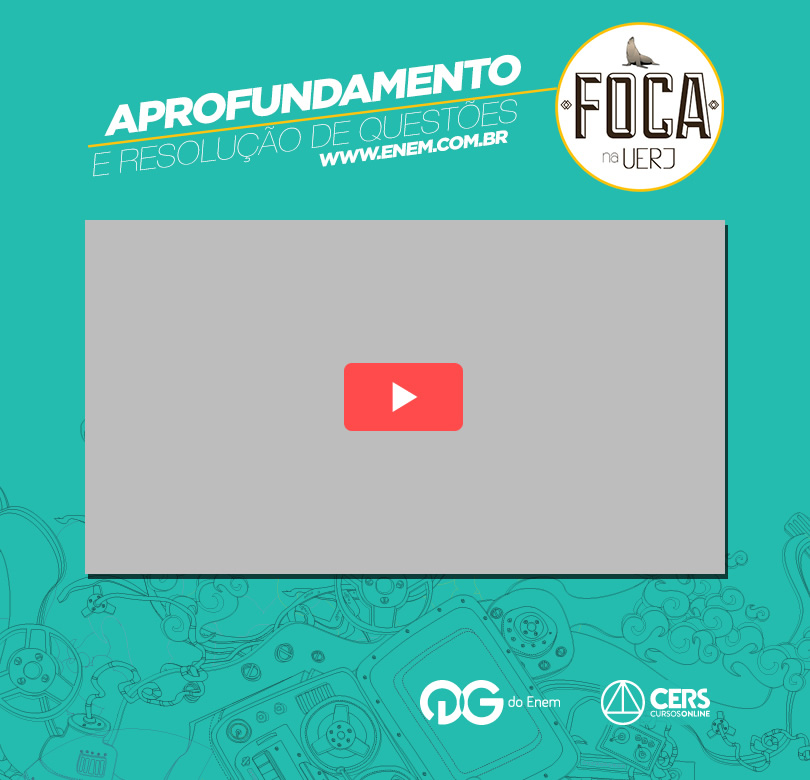
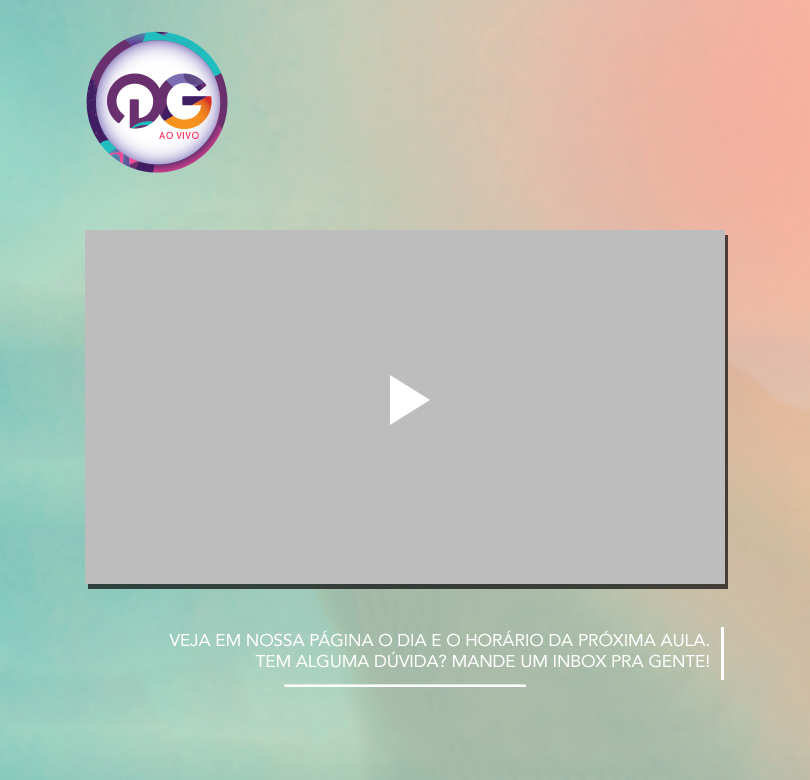
Template QG Enem 12 fev 2014

diff --git a/style/screen.css b/style/screen.css
@@ -2,5 +2,5 @@
   CSS
   Author: Letícia Matos | leticiamatos.com | CERS - Complexo de Ensino Renato Saraiva
 ------------------------------------ */
-.width_center{width:810px;margin-left:auto;margin-right:auto}.clear{display:block;clear:both}.block_wpr{width:100%;text-align:center}.block_wpr .block_cntt{width:790px;margin:0 auto;text-align:left}.video_like .block_cntt{height:780px;background:url(../img/video_like.jpg) top center no-repeat;position:relative}.video_like .player_wpr{width:640px;height:355px;background:#ccc;text-align:center;position:relative;margin:0 auto;top:220px}.video_unlike .block_cntt{height:780px;position:relative;background:url(../img/video_unlike.jpg) top center no-repeat}footer{display:block;width:290px;position:absolute;bottom:55px;right:90px}footer a{display:block;float:left;height:45px}footer a:nth-child(1){width:140px}footer a:nth-child(2){margin-left:40px;width:109px}
+.width_center{width:810px;margin-left:auto;margin-right:auto}a{color:#000;transition:.6s;-moz-transition:.6s;-webkit-transition:.6s;-o-transition:.6s;-ms-transition:.6s}a:hover{text-decoration:none;opacity:.6}.clear{display:block;clear:both}.block_wpr{width:100%;text-align:center}.block_wpr .block_cntt{width:790px;margin:0 auto;text-align:left}.video_like .block_cntt{height:780px;background:url(../img/video_like.jpg) top center no-repeat;position:relative}.video_like .player_wpr{width:640px;height:355px;background:#ccc;text-align:center;position:relative;margin:0 auto;top:230px}.video_like footer{top:270px}.video_like footer a{display:block;position:absolute}.video_like footer a.link_qg{top:80px;left:350px}.video_like footer a.link_cers{top:80px;right:80px}.video_unlike .block_cntt{height:780px;position:relative;background:url(../img/video_unlike.jpg) top center no-repeat}.video_unlike .link_qg,.video_unlike .link_cers{display:block;position:absolute}.video_unlike .link_qg{height:50px;width:150px;bottom:115px;right:50px}.video_unlike .link_cers{height:50px;width:120px;bottom:55px;right:85px}header a{display:block;position:absolute;top:80px;right:74px}footer{clear:both;display:block;position:relative;height:150px}
 /* This beautiful CSS-File has been crafted with LESS (lesscss.org) and compiled by simpLESS (wearekiss.com/simpless) */

diff --git a/style/screen.less b/style/screen.less
@@ -18,7 +18,21 @@
     margin-left: auto;
     margin-right: auto;
   }
-
+.transition (@transiton: 0.6s){
+  transition:@transiton;
+  -moz-transition:@transiton;
+  -webkit-transition:@transiton;
+  -o-transition:@transiton;
+  -ms-transition:@transiton;
+}
+a{ 
+  color: #000;
+  .transition;
+}
+a:hover{
+  text-decoration: none; 
+  opacity: 0.6;
+}
 .clear{
   display: block; 
   clear: both;
@@ -47,7 +61,22 @@
     text-align: center;
     position: relative;
     margin: 0 auto;
-    top:220px;
+    top:230px;
+  }
+  footer{
+    top: 270px;
+    a{
+      display: block;
+      position: absolute;
+    }
+    a.link_qg{
+      top: 80px;
+      left: 350px;
+    }
+    a.link_cers{
+      top: 80px;
+      right: 80px;
+    }    
   }
 }
 .video_unlike{
@@ -56,25 +85,39 @@
     position: relative;
     background: url(../img/video_unlike.jpg) top center no-repeat;
   }
-}
-footer{
-  display: block;
-  width: 290px;
-  //background: @cTest;
-  position: absolute;
-  bottom:55px;
-  right: 90px;
-  a{
+
+  .link_qg,
+  .link_cers{
     display: block;
-    float: left;
-    height: 45px;
+    position: absolute;
     //background: @cTest;
   }
-  a:nth-child(1){
-    width: 140px;
+  .link_qg{
+    height: 50px;
+    width: 150px;
+    bottom: 115px;
+    right: 50px;
   }
-  a:nth-child(2){
-    margin-left: 40px;
-    width: 109px;
+  .link_cers{
+    height: 50px;
+    width: 120px;
+    bottom: 55px;
+    right: 85px;
   }
+}
+header{
+  a{
+    display: block;
+    position: absolute;
+    top: 80px;
+    right: 74px;    
+  }
+}
+footer{
+  clear: both;
+  display: block;
+  //background: @cTest;
+  position: relative;
+  height: 150px;
+  
 }

diff --git a/video_like.php b/video_like.php
@@ -1,12 +1,15 @@
 <div class="general block_wpr video_like">
 	<section class="block_cntt">
+		<header>
+			<a href="http://www.enem.com.br" target="_blank"><img src="img/linha01.png" /></a>
+		</header>
 		<div  class="player_wpr">
 			<div id="video">
 			</div>
 		</div>
 		<footer>
-			<a href="http://www.enem.com.br" target="_blank" alt="QG do Enem"></a>
-			<a href="http://www.cers.com.br" target="_blank" alt="Cers - Complexo de Ensino Renato Saraiva"></a>
+			<a href="http://www.enem.com.br" target="_blank" alt="QG do Enem" class="link_qg"><img src="img/logo-qg.png" /></a>
+			<a href="http://www.cers.com.br" target="_blank" alt="Cers - Complexo de Ensino Renato Saraiva" class="link_cers"><img src="img/logo-cers.png" /></a>
 		</footer>
 	</section>
 

diff --git a/video_unlike.php b/video_unlike.php
@@ -4,10 +4,8 @@
 
 <div class="general block_wpr video_unlike">
 	<section class="block_cntt">
-		<footer>
-			<a href="http://www.enem.com.br" target="_blank" alt="QG do Enem"></a>
-			<a href="http://www.cers.com.br" target="_blank" alt="Cers - Complexo de Ensino Renato Saraiva"></a>
-		</footer>
+		<a href="http://www.enem.com.br" target="_blank" alt="QG do Enem" class="link_qg"></a>
+		<a href="http://www.cers.com.br" target="_blank" alt="Cers - Complexo de Ensino Renato Saraiva" class="link_cers"></a>
 	</section>
 
 	<div class="fb-comments" data-href="http://www.enem.com.br#qgdoenem-desafiosei_unlike" data-numposts="10" data-width="800"></div>
